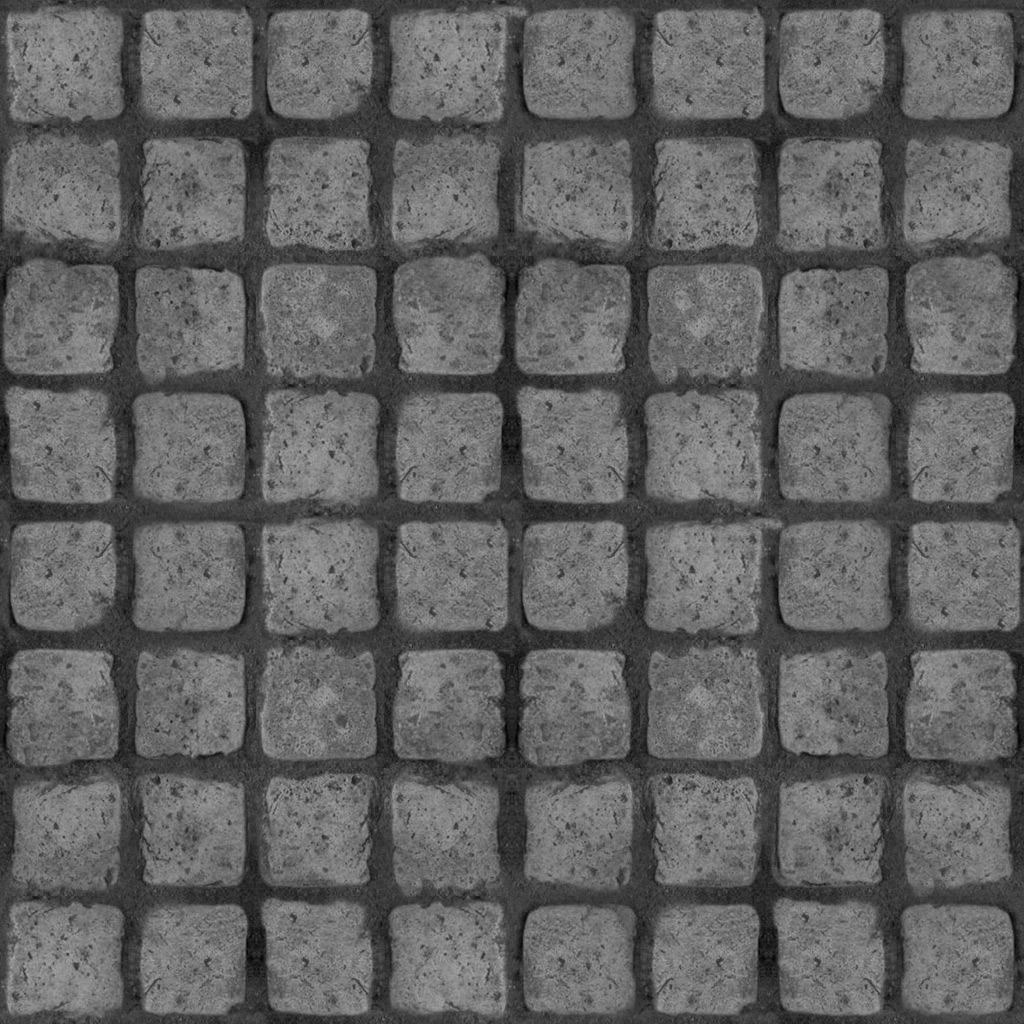
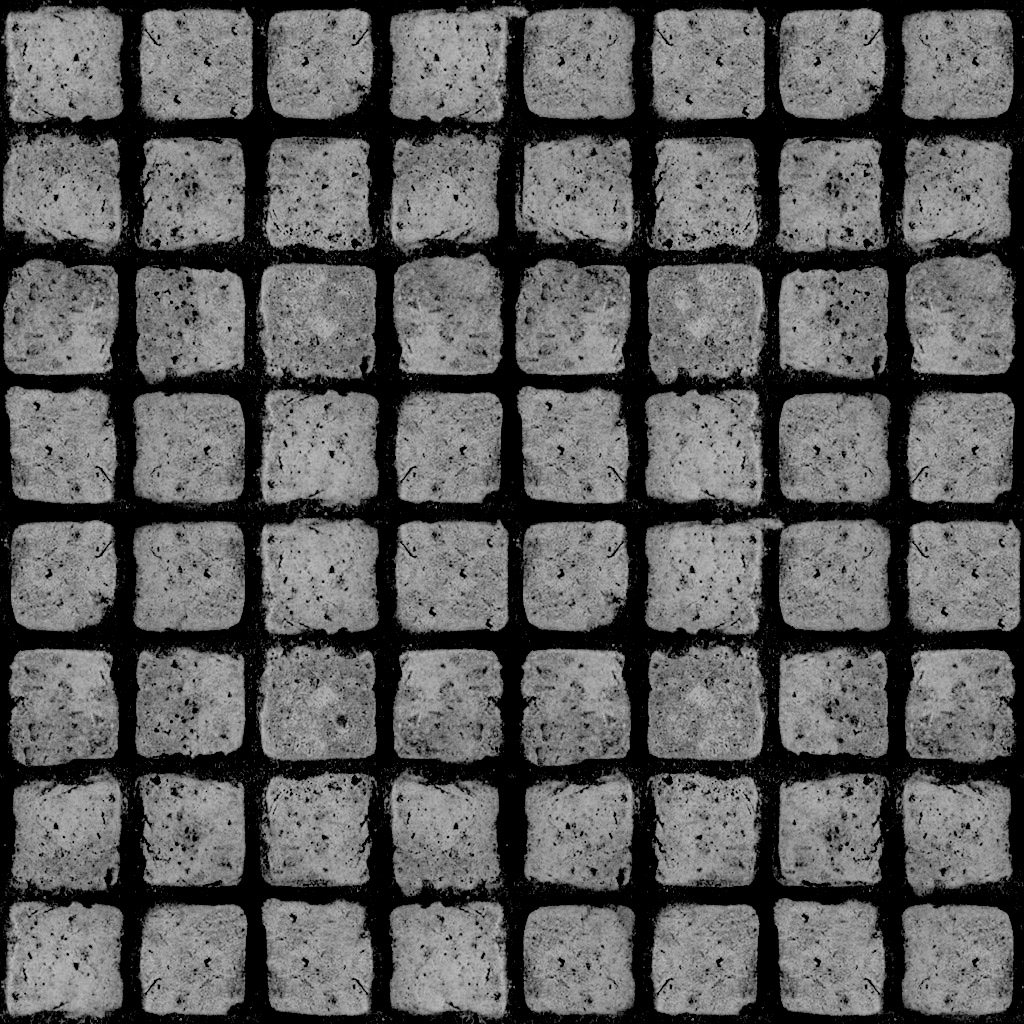
Update NormalMap

diff --git a/BI3D/BI3D_Scene.cpp b/BI3D/BI3D_Scene.cpp
@@ -460,7 +460,7 @@ void Scene::Update()
 			glUniform3f(glGetUniformLocation(materialList[i]->program, "directionalLight.direction"), directionalLight->direction.x, directionalLight->direction.y, directionalLight->direction.z);
 			glUniform3f(glGetUniformLocation(materialList[i]->program, "directionalLight.ambient"), directionalLight->ambient.x, directionalLight->ambient.y, directionalLight->ambient.z);
 			glUniform3f(glGetUniformLocation(materialList[i]->program, "directionalLight.diffuse"), directionalLight->diffuse.x*directionalLight->intensity, directionalLight->diffuse.y*directionalLight->intensity, directionalLight->diffuse.z*directionalLight->intensity);
-			glUniform3f(glGetUniformLocation(materialList[i]->program, "directionalLight.specular"), directionalLight->specular.x, directionalLight->specular.y, directionalLight->specular.z);
+			glUniform3f(glGetUniformLocation(materialList[i]->program, "directionalLight.specular"), directionalLight->specular.x*directionalLight->intensity, directionalLight->specular.y*directionalLight->intensity, directionalLight->specular.z*directionalLight->intensity);
 
 			if(pointLight.size() < maxPointLight)
 				glUniform1i(glGetUniformLocation(materialList[i]->program, "countPointLight"), pointLight.size());
@@ -481,7 +481,7 @@ void Scene::Update()
 
 				glUniform3f(glGetUniformLocation(materialList[i]->program, (str+".ambient").c_str()), pointLight[a]->ambient.x, pointLight[a]->ambient.y, pointLight[a]->ambient.z);
 				glUniform3f(glGetUniformLocation(materialList[i]->program, (str+".diffuse").c_str()), pointLight[a]->diffuse.x*pointLight[a]->intensity, pointLight[a]->diffuse.y*pointLight[a]->intensity, pointLight[a]->diffuse.z*pointLight[a]->intensity);
-				glUniform3f(glGetUniformLocation(materialList[i]->program, (str+".specular").c_str()), pointLight[a]->specular.x, pointLight[a]->specular.y, pointLight[a]->specular.z);
+				glUniform3f(glGetUniformLocation(materialList[i]->program, (str+".specular").c_str()), pointLight[a]->specular.x*pointLight[a]->intensity, pointLight[a]->specular.y*pointLight[a]->intensity, pointLight[a]->specular.z*pointLight[a]->intensity);
 
 				if(a >= maxPointLight-1)
 					break;
@@ -512,7 +512,7 @@ void Scene::Update()
 
 				glUniform3f(glGetUniformLocation(materialList[i]->program, (str+".ambient").c_str()), spotLight[a]->ambient.x, spotLight[a]->ambient.y, spotLight[a]->ambient.z);
 				glUniform3f(glGetUniformLocation(materialList[i]->program, (str+".diffuse").c_str()), spotLight[a]->diffuse.x*spotLight[a]->intensity, spotLight[a]->diffuse.y*spotLight[a]->intensity, spotLight[a]->diffuse.z*spotLight[a]->intensity);
-				glUniform3f(glGetUniformLocation(materialList[i]->program, (str+".specular").c_str()), spotLight[a]->specular.x, spotLight[a]->specular.y, spotLight[a]->specular.z);
+				glUniform3f(glGetUniformLocation(materialList[i]->program, (str+".specular").c_str()), spotLight[a]->specular.x*spotLight[a]->intensity, spotLight[a]->specular.y*spotLight[a]->intensity, spotLight[a]->specular.z*spotLight[a]->intensity);
 
 				if(a >= maxSpotLight-1)
 					break;

diff --git a/main.cpp b/main.cpp
@@ -47,11 +47,11 @@ void Start()
 
 	plane = new Object();
 	plane->LoadTexture("source/model/plane.jpg", BI3D_TEXTURE_DIFFUSE);
-	plane->LoadTexture("source/model/planeSpec2.jpg", BI3D_TEXTURE_SPECULAR);
+	plane->LoadTexture("source/model/planeSpec.jpg", BI3D_TEXTURE_SPECULAR);
 	plane->LoadTexture("source/model/planeNorm.jpg", BI3D_TEXTURE_NORMAL);
 	plane->Load("source/model/plane.obj", BI3D_LOAD_NORMALMAP);
 	plane->SetMaterialMode(BI3D_SUPPORT_LIGHT_AND_NORMALMAP);
-	plane->SetShininess(8.0f);
+	plane->SetShininess(16.0f);
 
 	plane->scaleX = 10.0f;
 	plane->scaleZ = 10.0f;
@@ -91,21 +91,22 @@ void Start()
 	//scene->SetDirectionalLightDirection(3.0f, -1.0f, 5.0f);
 	//scene->SetDirectionalLightAmbient(Color(0.0f, 0.0f, 0.0f));
 	//scene->SetDirectionalLightColor(Color(1.0f, 1.0f, 1.0f));
-	//scene->SetDirectionalLightIntensity(1.0f);
+	//scene->SetDirectionalLightSpecular(Color(1.0f, 1.0f, 1.0f));
+	//scene->SetDirectionalLightIntensity(5.0f);
 
 	//PointLight
 	pl1 = new PointLight(-5.0f, 1.0f, 5.0f);
 	pl1->SetColor(Color(0.0f, 0.0f, 5.0f));
-	pl1->SetSpecular(Color(0.2f, 0.2f, 1.0f));
+	pl1->SetSpecular(Color(0.1f, 0.1f, 0.5f));
 	pl2 = new PointLight(5.0f, 1.0f, 5.0f);
 	pl2->SetColor(Color(5.0f, 0.0f, 0.0f));
-	pl2->SetSpecular(Color(5.0f, 0.2f, 0.2f));
+	pl2->SetSpecular(Color(0.5f, 0.1f, 0.1f));
 	pl3 = new PointLight(-5.0f, 1.0f, -5.0f);
 	pl3->SetColor(Color(0.0f, 5.0f, 0.0f));
-	pl3->SetSpecular(Color(0.2f, 1.0f, 0.2f));
+	pl3->SetSpecular(Color(0.1f, 0.5f, 0.1f));
 	pl4 = new PointLight(5.0f, 1.0f, -5.0f);
 	pl4->SetColor(Color(5.0f, 5.0f, 5.0f));
-	pl4->SetSpecular(Color(1.0f, 1.0f, 1.0f));
+	pl4->SetSpecular(Color(0.5f, 0.5f, 0.4f));
 
 	//Add PointLight
 	scene->AddPointLight(pl1);

diff --git a/sample2.cpp b/sample2.cpp
@@ -46,9 +46,10 @@ void Start()
 
 	plane = new Object();
 	plane->LoadTexture("source/model/plane.jpg", BI3D_TEXTURE_DIFFUSE);
-	plane->LoadTexture("source/model/planeSpec2.jpg", BI3D_TEXTURE_SPECULAR);
+	plane->LoadTexture("source/model/planeSpec.jpg", BI3D_TEXTURE_SPECULAR);
 	plane->Load("source/model/plane.obj");
 	plane->SetMaterialMode(BI3D_SUPPORT_LIGHT);
+	plane->SetShininess(128.0f);
 
 	plane->scaleX = 10.0f;
 	plane->scaleZ = 10.0f;

diff --git a/BI3D/BI3D_Material.cpp b/BI3D/BI3D_Material.cpp
@@ -3,7 +3,7 @@
 Material::Material(string vertexShaderPath, string fragmentShaderPath, int type)
 {
 	this->type = type;
-	this->shininess = 128.0f;
+	this->shininess = 64.0f;
 
 	program = glCreateProgram();
 
